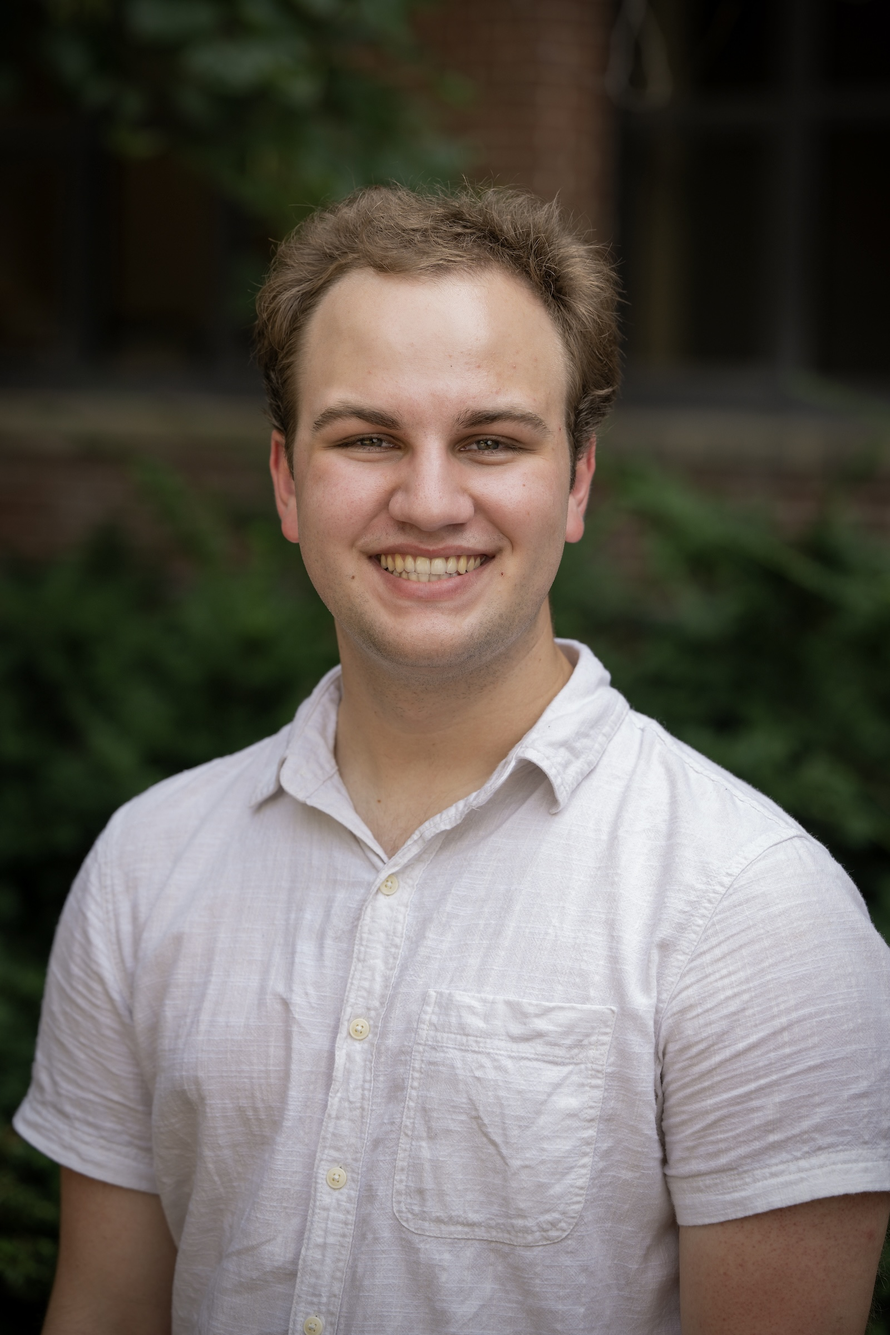
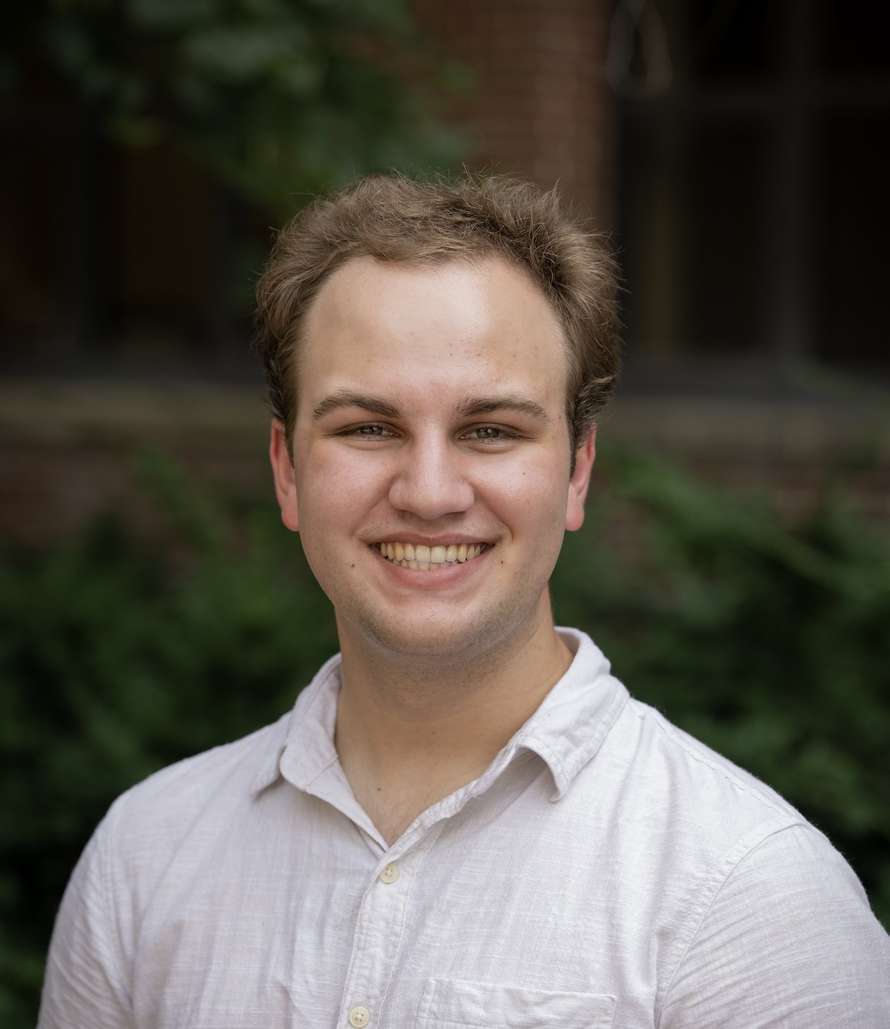
Crop profile picture

diff --git a/project/biostat882project/index.html b/project/biostat882project/index.html
@@ -1073,7 +1073,7 @@
   <div class="media author-card content-widget-hr">
     
       
-      <a href="https://timwhite0.github.io/"><img class="avatar mr-3 avatar-circle" src="/authors/admin/avatar_hufab0aff3a142780f7219b3a0407422a6_841878_270x270_fill_q75_lanczos_center.jpg" alt="Tim White"></a>
+      <a href="https://timwhite0.github.io/"><img class="avatar mr-3 avatar-circle" src="/authors/admin/avatar_hufab0aff3a142780f7219b3a0407422a6_560651_270x270_fill_q75_lanczos_center.jpg" alt="Tim White"></a>
     
 
     <div class="media-body">

diff --git a/project/mlbdash/index.html b/project/mlbdash/index.html
@@ -1087,7 +1087,7 @@
   <div class="media author-card content-widget-hr">
     
       
-      <a href="https://timwhite0.github.io/"><img class="avatar mr-3 avatar-circle" src="/authors/admin/avatar_hufab0aff3a142780f7219b3a0407422a6_841878_270x270_fill_q75_lanczos_center.jpg" alt="Tim White"></a>
+      <a href="https://timwhite0.github.io/"><img class="avatar mr-3 avatar-circle" src="/authors/admin/avatar_hufab0aff3a142780f7219b3a0407422a6_560651_270x270_fill_q75_lanczos_center.jpg" alt="Tim White"></a>
     
 
     <div class="media-body">

diff --git a/project/stats601project/index.html b/project/stats601project/index.html
@@ -1071,7 +1071,7 @@
   <div class="media author-card content-widget-hr">
     
       
-      <a href="https://timwhite0.github.io/"><img class="avatar mr-3 avatar-circle" src="/authors/admin/avatar_hufab0aff3a142780f7219b3a0407422a6_841878_270x270_fill_q75_lanczos_center.jpg" alt="Tim White"></a>
+      <a href="https://timwhite0.github.io/"><img class="avatar mr-3 avatar-circle" src="/authors/admin/avatar_hufab0aff3a142780f7219b3a0407422a6_560651_270x270_fill_q75_lanczos_center.jpg" alt="Tim White"></a>
     
 
     <div class="media-body">

diff --git a/project/stats604creativity/index.html b/project/stats604creativity/index.html
@@ -1078,7 +1078,7 @@
   <div class="media author-card content-widget-hr">
     
       
-      <a href="https://timwhite0.github.io/"><img class="avatar mr-3 avatar-circle" src="/authors/admin/avatar_hufab0aff3a142780f7219b3a0407422a6_841878_270x270_fill_q75_lanczos_center.jpg" alt="Tim White"></a>
+      <a href="https://timwhite0.github.io/"><img class="avatar mr-3 avatar-circle" src="/authors/admin/avatar_hufab0aff3a142780f7219b3a0407422a6_560651_270x270_fill_q75_lanczos_center.jpg" alt="Tim White"></a>
     
 
     <div class="media-body">

diff --git a/project/stats604weather/index.html b/project/stats604weather/index.html
@@ -1078,7 +1078,7 @@
   <div class="media author-card content-widget-hr">
     
       
-      <a href="https://timwhite0.github.io/"><img class="avatar mr-3 avatar-circle" src="/authors/admin/avatar_hufab0aff3a142780f7219b3a0407422a6_841878_270x270_fill_q75_lanczos_center.jpg" alt="Tim White"></a>
+      <a href="https://timwhite0.github.io/"><img class="avatar mr-3 avatar-circle" src="/authors/admin/avatar_hufab0aff3a142780f7219b3a0407422a6_560651_270x270_fill_q75_lanczos_center.jpg" alt="Tim White"></a>
     
 
     <div class="media-body">

diff --git a/project/stats608project/index.html b/project/stats608project/index.html
@@ -1079,7 +1079,7 @@
   <div class="media author-card content-widget-hr">
     
       
-      <a href="https://timwhite0.github.io/"><img class="avatar mr-3 avatar-circle" src="/authors/admin/avatar_hufab0aff3a142780f7219b3a0407422a6_841878_270x270_fill_q75_lanczos_center.jpg" alt="Tim White"></a>
+      <a href="https://timwhite0.github.io/"><img class="avatar mr-3 avatar-circle" src="/authors/admin/avatar_hufab0aff3a142780f7219b3a0407422a6_560651_270x270_fill_q75_lanczos_center.jpg" alt="Tim White"></a>
     
 
     <div class="media-body">

diff --git a/publication/white_algeri_2022/index.html b/publication/white_algeri_2022/index.html
@@ -1129,7 +1129,7 @@
   <div class="media author-card content-widget-hr">
     
       
-      <a href="https://timwhite0.github.io/"><img class="avatar mr-3 avatar-circle" src="/authors/admin/avatar_hufab0aff3a142780f7219b3a0407422a6_841878_270x270_fill_q75_lanczos_center.jpg" alt="Tim White"></a>
+      <a href="https://timwhite0.github.io/"><img class="avatar mr-3 avatar-circle" src="/authors/admin/avatar_hufab0aff3a142780f7219b3a0407422a6_560651_270x270_fill_q75_lanczos_center.jpg" alt="Tim White"></a>
     
 
     <div class="media-body">

diff --git a/publication/white_regier_2023/index.html b/publication/white_regier_2023/index.html
@@ -1125,7 +1125,7 @@
   <div class="media author-card content-widget-hr">
     
       
-      <a href="https://timwhite0.github.io/"><img class="avatar mr-3 avatar-circle" src="/authors/admin/avatar_hufab0aff3a142780f7219b3a0407422a6_841878_270x270_fill_q75_lanczos_center.jpg" alt="Tim White"></a>
+      <a href="https://timwhite0.github.io/"><img class="avatar mr-3 avatar-circle" src="/authors/admin/avatar_hufab0aff3a142780f7219b3a0407422a6_560651_270x270_fill_q75_lanczos_center.jpg" alt="Tim White"></a>
     
 
     <div class="media-body">

diff --git a/talk/estimating-the-lifetime-risk-of-a-false-positive-screening-test-result/index.html b/talk/estimating-the-lifetime-risk-of-a-false-positive-screening-test-result/index.html
@@ -1131,7 +1131,7 @@
   <div class="media author-card content-widget-hr">
     
       
-      <a href="https://timwhite0.github.io/"><img class="avatar mr-3 avatar-circle" src="/authors/admin/avatar_hufab0aff3a142780f7219b3a0407422a6_841878_270x270_fill_q75_lanczos_center.jpg" alt="Tim White"></a>
+      <a href="https://timwhite0.github.io/"><img class="avatar mr-3 avatar-circle" src="/authors/admin/avatar_hufab0aff3a142780f7219b3a0407422a6_560651_270x270_fill_q75_lanczos_center.jpg" alt="Tim White"></a>
     
 
     <div class="media-body">

diff --git a/talk/sequential-monte-carlo-for-detecting-and-deblending-objects-in-astronomical-images/index.html b/talk/sequential-monte-carlo-for-detecting-and-deblending-objects-in-astronomical-images/index.html
@@ -1144,7 +1144,7 @@
   <div class="media author-card content-widget-hr">
     
       
-      <a href="https://timwhite0.github.io/"><img class="avatar mr-3 avatar-circle" src="/authors/admin/avatar_hufab0aff3a142780f7219b3a0407422a6_841878_270x270_fill_q75_lanczos_center.jpg" alt="Tim White"></a>
+      <a href="https://timwhite0.github.io/"><img class="avatar mr-3 avatar-circle" src="/authors/admin/avatar_hufab0aff3a142780f7219b3a0407422a6_560651_270x270_fill_q75_lanczos_center.jpg" alt="Tim White"></a>
     
 
     <div class="media-body">

diff --git a/index.html b/index.html
@@ -911,7 +911,7 @@
       
       <img class="avatar avatar-circle"
            width="270" height="270"
-           src="/authors/admin/avatar_hufab0aff3a142780f7219b3a0407422a6_841878_270x270_fill_q75_lanczos_center.jpg" alt="Tim White">
+           src="/authors/admin/avatar_hufab0aff3a142780f7219b3a0407422a6_560651_270x270_fill_q75_lanczos_center.jpg" alt="Tim White">
       
 
       <div class="portrait-title">
